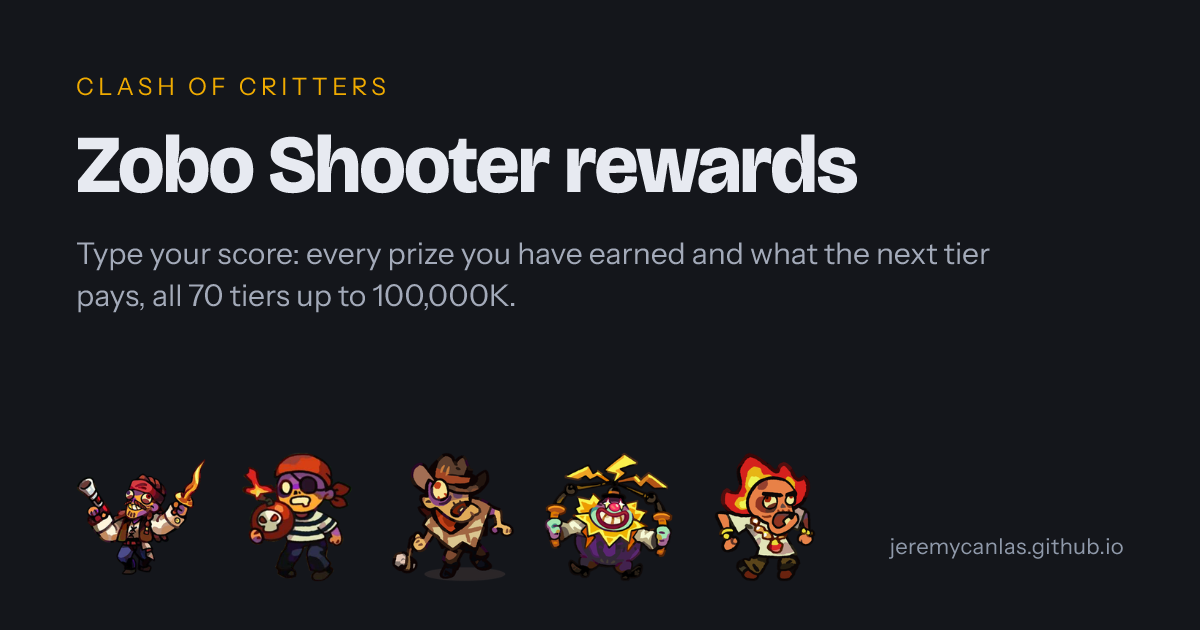
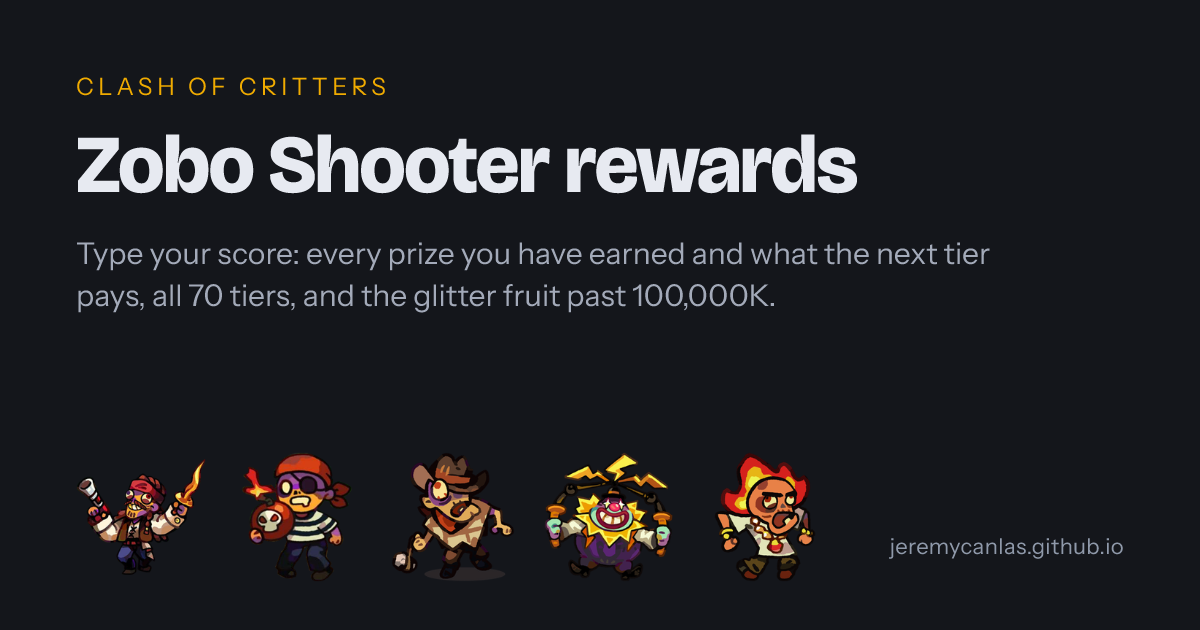
Zobo Shooter: one glitter fruit per 1,000K past 100,000K
Claude-Session: https://claude.ai/code/session_01CBHxHGj6fpD1cM1rNJGKgc

Changed region(s): [[0.2467, 0.4524, 0.6475, 0.5127]]

diff --git a/zobo.html b/zobo.html
@@ -20,7 +20,7 @@
   <meta property="og:type" content="website">
   <meta property="og:site_name" content="Horde Drafter">
   <meta property="og:title" content="Zobo Shooter rewards">
-  <meta property="og:description" content="Type your score: every prize you have earned and what the next tier pays, all 70 tiers up to 100,000K.">
+  <meta property="og:description" content="Type your score: every prize you have earned and what the next tier pays, all 70 tiers, and the glitter fruit past 100,000K.">
   <meta property="og:url" content="https://jeremycanlas.github.io/clash-of-critters-horde-planner/zobo.html">
   <meta property="og:image" content="https://jeremycanlas.github.io/clash-of-critters-horde-planner/assets/img/og/zobo.png">
   <meta property="og:image:width" content="1200">
@@ -86,7 +86,8 @@
   <footer class="foot">
     <span>Fan-made, unofficial.</span>
     <span class="muted">The 70 tiers were read off the in-game reward list and checked by eye
-      against every screen. The list ends at 100,000K (100M).</span>
+      against every screen. Past the last tier the game pays one glitter fruit for every 1,000K
+      extra points.</span>
   </footer>
 
   <script type="module" src="assets/js/farm.js"></script>
